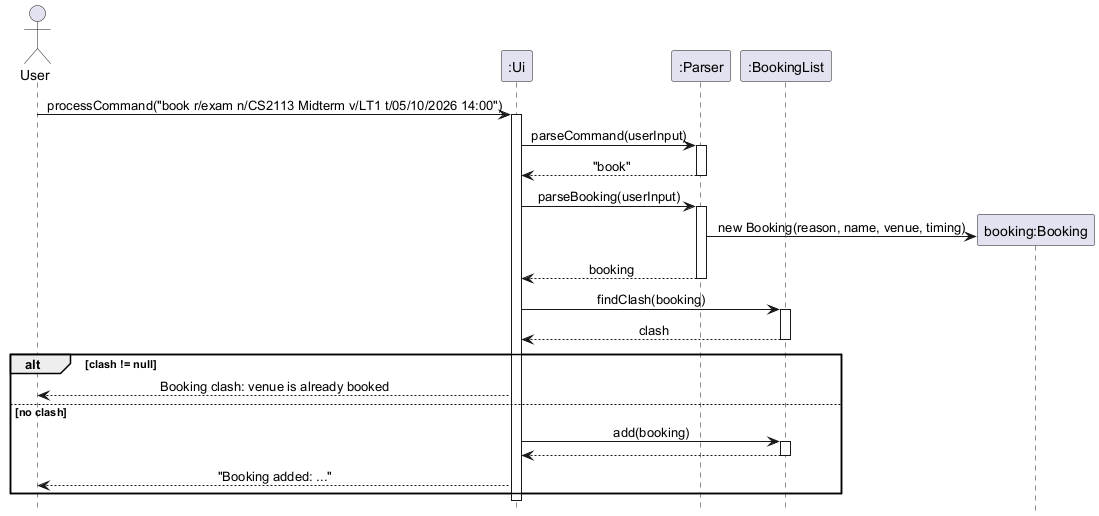
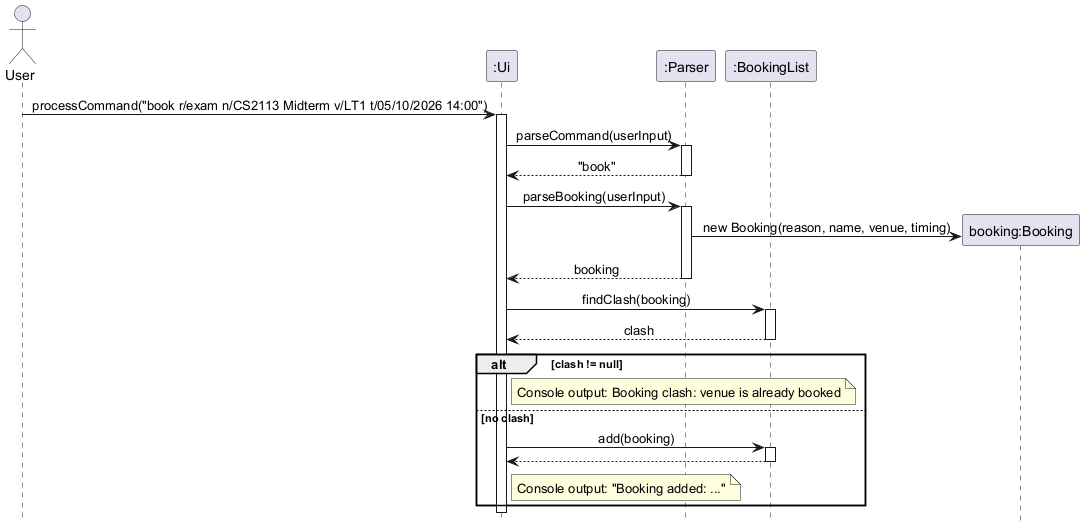
Updated UML diagrams

diff --git a/docs/DeveloperGuide.md b/docs/DeveloperGuide.md
@@ -8,6 +8,7 @@
   - [Setting up the project](#setting-up-the-project)
 - [Design & implementation](#design--implementation)
   - [Overall class diagram](#overall-class-diagram)
+  - [Command class diagram](#command-class-diagram)
   - [Creating a booking: book](#creating-a-booking-book)
   - [Listing bookings: list](#listing-bookings-list)
   - [List available venues: free](#list-available-venues-free)
@@ -146,8 +147,8 @@ superclasses; directed solid lines show navigable associations, and dashed arrow
 
 `EduReserve` creates the UI and storage objects and passes the loaded `BookingList` to `Ui`.
 `Ui` uses `Parser` to interpret input and creates or retains concrete command objects to execute
-operations. All ten command classes extend `Command`; cancellation is handled directly in `Ui`.
-`RedoCommand` refers to the same `UndoCommand` retained by `Ui`, so both use one session history.
+operations. The generic `Command` represents those concrete commands in this overview;
+their inheritance relationships are shown separately below. Cancellation is handled directly in `Ui`.
 
 `BookingList` holds references to `Booking` objects, which inherit their reason (the `description`
 field) from `Task`. `Storage` loads and saves these bookings, while `VenueCatalog` supplies the
@@ -157,11 +158,23 @@ in search results and undo/redo snapshots.
 
 For readability, only selected members and relationships are shown. Help text, parsing option
 types, sorting options, exceptions, private history records and Java library classes are omitted.
-Parser fields in the command classes denote retained references; each concrete command overrides
-`execute(BookingList, String)`.
+`Storage.saveBookings` returns the saved file's modification time as a `FileTime`.
+
+### Command class diagram
+
+All ten concrete command classes extend `Command` and override `execute(BookingList, String)`.
+The diagram omits repeated overrides and most implementation details to focus on inheritance.
+Parser fields denote retained references. `EditCommand` also handles input across multiple commands.
+`RedoCommand` refers to the same `UndoCommand` retained by `Ui`, so both use one session history.
+
+![Command component class diagram](UMLDiagrams/CommandClassDiagram.png)
+
+[Editable PlantUML source](UMLDiagrams/CommandClassDiagram.puml)
 
 The command sequence diagrams below show the user calling `Ui` directly, with the application
-entry point omitted. Arrows back to the user represent console output. Loading and saving are
+entry point omitted. Dashed return arrows go back to the object that made the call; unlabelled
+returns from command execution carry no value because `execute` returns `void`. Console output
+is shown in notes, not as return arrows to the user. Loading and saving are
 shown separately in the storage diagram, which includes `EduReserve` because it calls `Storage`
 directly and handles the corresponding user interaction.
 
